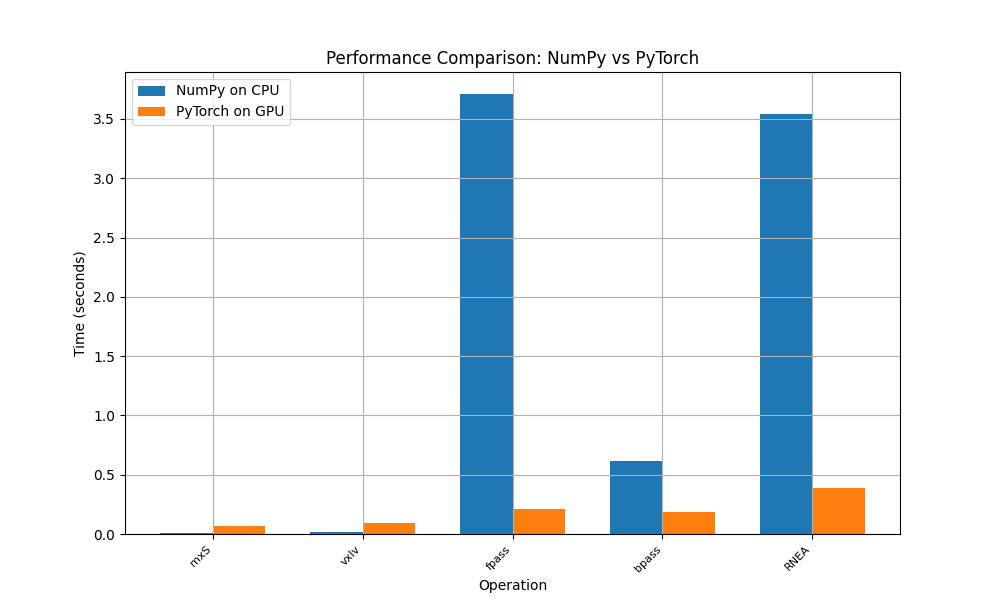
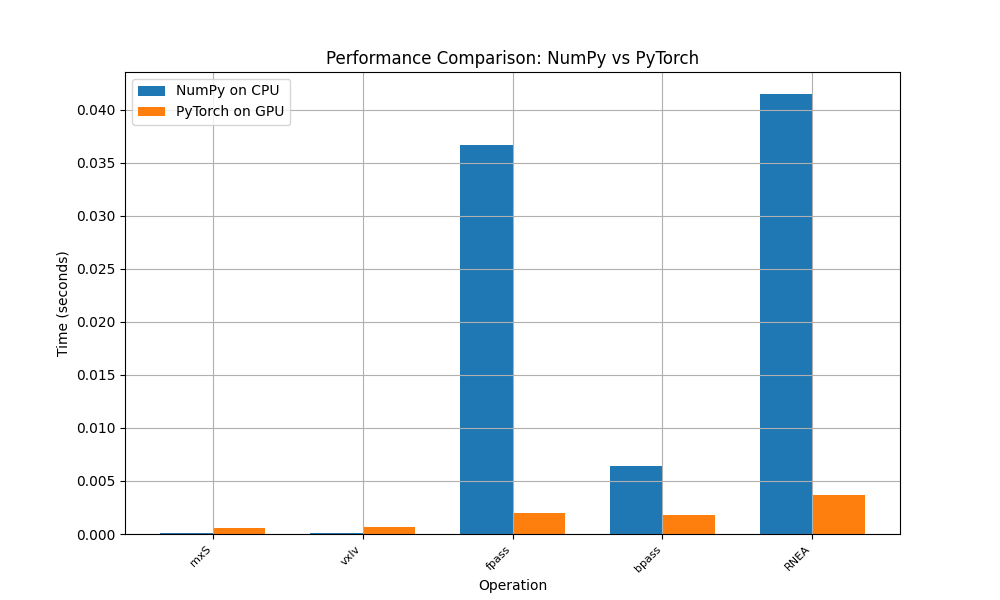
new graph

diff --git a/Graphs/Graphing_script.py b/Graphs/Graphing_script.py
@@ -77,52 +77,26 @@ plt.show()
 # plt.show()
 
 
-# import matplotlib.pyplot as plt
-
-# # Data for plotting
-# labels = ['mxS', 'vxIv', 'fpass', 'bpass', 'RNEA']
-
-# numpy_times = [0.0073125471, 0.0132675189, 3.710159997, 0.6121313864, 3.54439054]
-# pytorch_times = [0.0633323941, 0.0929346393, 0.2108642872, 0.1830261935, 0.3851471845]
-
-# # Plotting the results
-# plt.figure(figsize=(10,6))
-# x = np.arange(len(labels))
-# width = 0.35
-# plt.bar(x - width/2, numpy_times, width, label='NumPy on CPU')
-# plt.bar(x + width/2, pytorch_times, width, label='PyTorch on GPU')
-
-# # Title and labels
-# plt.title('Performance Comparison: NumPy vs PyTorch')
-# plt.xlabel('Operation')
-# plt.ylabel('Time (seconds)')
-
-# # X-axis ticks and labels
-# plt.xticks(x, labels, rotation=45, ha='right', fontsize=8)
-
-# # Legend
-# plt.legend()
-
-# # Grid and show plot
-# plt.grid(True)
-# plt.show()
-
+import matplotlib.pyplot as plt
 
 # Data for plotting
-labels = ['cross_product', 'mxS']
+labels = ['mxS', 'vxIv', 'fpass', 'bpass', 'RNEA']
 
-julia_times = [0.4101729393005371, 4.354753017425537]
-cuda_times = [2.9041030406951904, 18.969295978546143]
+#numpy_times = [0.0073125471, 0.0132675189, 3.710159997, 0.6121313864, 3.54439054]
+#pytorch_times = [0.0633323941, 0.0929346393, 0.2108642872, 0.1830261935, 0.3851471845]
+
+numpy_times = [6.92E-05, 9.36E-05, 0.03662083224, 0.006419221088, 0.04147206579]
+pytorch_times = [0.000556017598, 0.000645810509, 0.002002759124, 0.00183310777, 0.003693169524]
 
 # Plotting the results
 plt.figure(figsize=(10,6))
 x = np.arange(len(labels))
 width = 0.35
-plt.bar(x - width/2, julia_times, width, label='Julia on CPU', color='red')
-plt.bar(x + width/2, cuda_times, width, label='CUDA.jl on GPU', color='green')
+plt.bar(x - width/2, numpy_times, width, label='NumPy on CPU')
+plt.bar(x + width/2, pytorch_times, width, label='PyTorch on GPU')
 
 # Title and labels
-plt.title('Performance Comparison: Julia vs CUDA.jl')
+plt.title('Performance Comparison: NumPy vs PyTorch')
 plt.xlabel('Operation')
 plt.ylabel('Time (seconds)')
 
@@ -135,3 +109,33 @@ plt.legend()
 # Grid and show plot
 plt.grid(True)
 plt.show()
+
+
+# # Data for plotting
+# labels = ['cross_product', 'mxS']
+
+# julia_times = [0.4101729393005371, 4.354753017425537]
+# cuda_times = [2.9041030406951904, 18.969295978546143]
+
+
+# # Plotting the results
+# plt.figure(figsize=(10,6))
+# x = np.arange(len(labels))
+# width = 0.35
+# plt.bar(x - width/2, julia_times, width, label='Julia on CPU', color='red')
+# plt.bar(x + width/2, cuda_times, width, label='CUDA.jl on GPU', color='green')
+
+# # Title and labels
+# plt.title('Performance Comparison: Julia vs CUDA.jl')
+# plt.xlabel('Operation')
+# plt.ylabel('Time (seconds)')
+
+# # X-axis ticks and labels
+# plt.xticks(x, labels, rotation=45, ha='right', fontsize=8)
+
+# # Legend
+# plt.legend()
+
+# # Grid and show plot
+# plt.grid(True)
+# plt.show()
